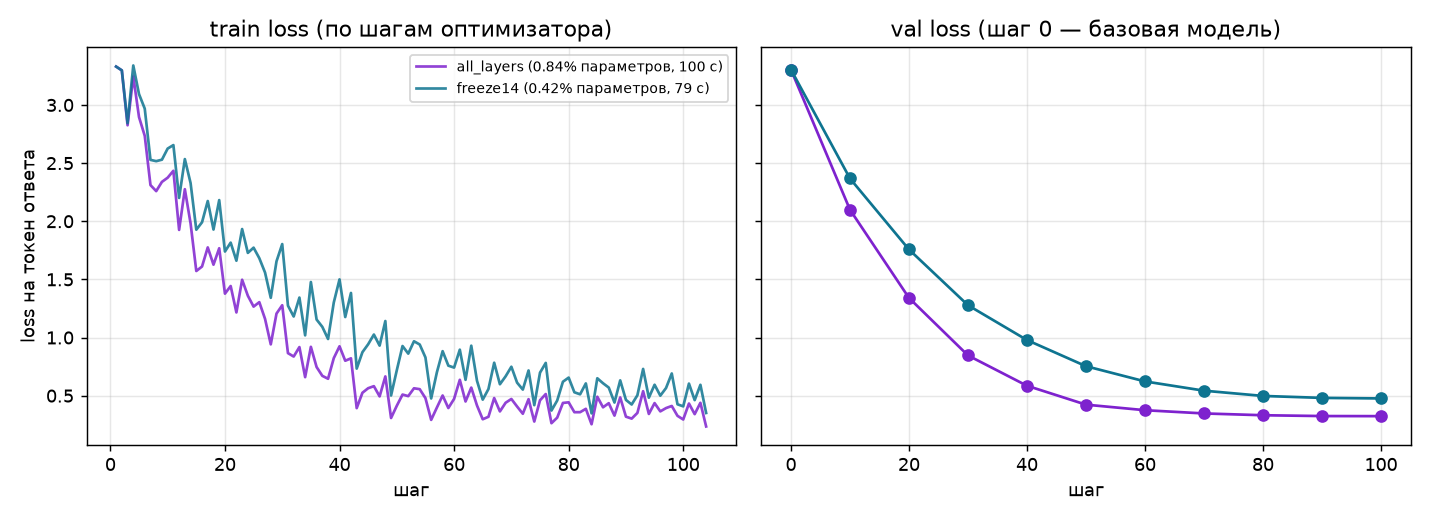
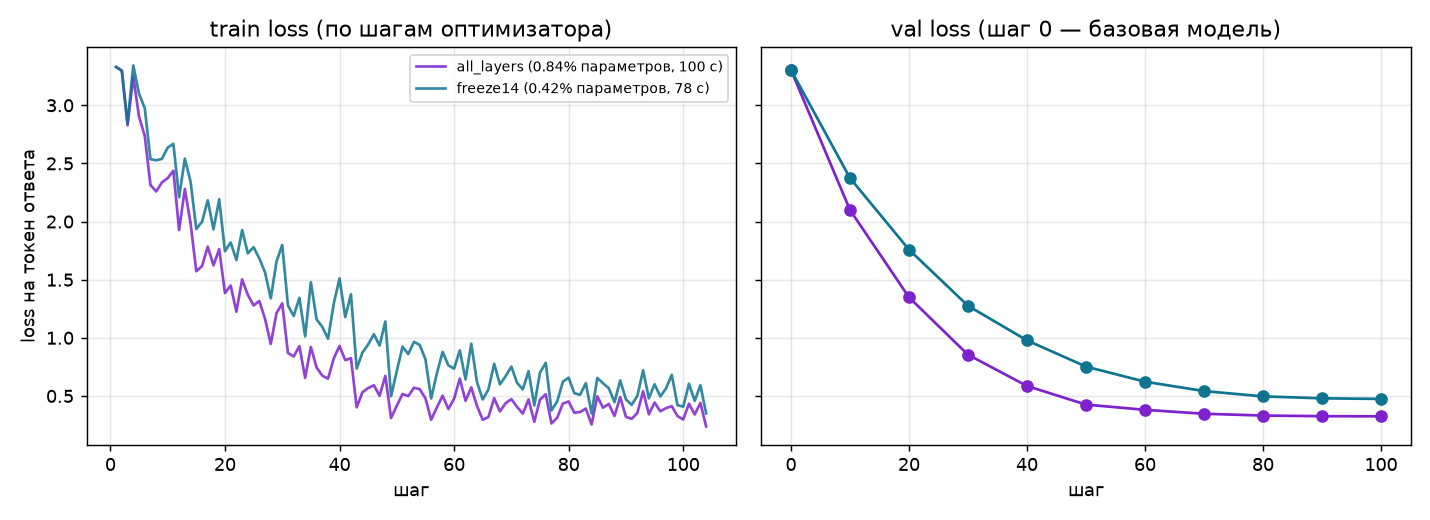
hw5 done

diff --git a/src/train.py b/src/train.py
@@ -26,6 +26,7 @@ os.environ.setdefault("PYTORCH_MPS_HIGH_WATERMARK_RATIO", "0.5")
 os.environ.setdefault("PYTORCH_MPS_LOW_WATERMARK_RATIO", "0.4")   # нижний порог не выше верхнего
 
 import torch  # noqa: E402
+import random  # noqa: E402
 from peft import LoraConfig, get_peft_model
 from transformers import AutoModelForCausalLM, AutoTokenizer, get_cosine_schedule_with_warmup
 
@@ -111,7 +112,12 @@ def main() -> None:
 
     device = resolve_device(params["model"]["device"])
     dtype = resolve_dtype(params["model"]["dtype"])
+    random.seed(tcfg["seed"])
+    torch.manual_seed(tcfg["seed"])
+    if torch.cuda.is_available():
+        torch.cuda.manual_seed_all(tcfg["seed"])
 
+  
     train_blob = load_split(params["data"]["train"])
     val_blob = load_split(params["data"]["val"])
     if args.val_limit:
@@ -131,6 +137,11 @@ def main() -> None:
     trainable = sum(p.numel() for p in model.parameters() if p.requires_grad)
     total = sum(p.numel() for p in model.parameters())
     model.train()
+
+    random.seed(tcfg["seed"])
+    torch.manual_seed(tcfg["seed"])
+    if torch.cuda.is_available():
+        torch.cuda.manual_seed_all(tcfg["seed"])
 
     examples = train_blob["examples"]
     micro_per_epoch = math.ceil(len(examples) / tcfg["batch_size"])
@@ -197,6 +208,7 @@ def main() -> None:
     out_root = Path(args.out) if args.out else Path(params["paths"]["models"])
     adapter_dir = out_root / f"adapter_{args.variant}"
     model.save_pretrained(adapter_dir)
+    tokenizer.save_pretrained(adapter_dir)
 
     tokens = sum(len(e["input_ids"]) for e in examples) * tcfg["epochs"]
     metrics = {

diff --git a/docs/defects.md b/docs/defects.md
@@ -1,0 +1,53 @@
+# Разбор пяти дефектов 
+
+Каждый дефект подтверждён числом из моего прогона на CUDA (Qwen3-0.6B, lr 2e-4, 104 шага, эффективный батч 8).
+
+## 1. Валидация не считается
+
+**В чём был.** В `src/train.py` функция `evaluate()` была написана, но не вызывалась: `base_val = None`, `curve_val` оставался пустым, `final_val_loss` в метриках был `null`. В логе печатался только train loss.
+
+**Как проявлялся.** `make check`, проверка 1: «точек val loss: 0 — нужен замер до обучения, по ходу и в конце». Не было видно, лучше ли модель базовой, и нельзя было поймать переобучение.
+
+**Как исправлен.** В `main()` после сборки модели вызван `evaluate(model.get_base_model(), ...)` для базовой точки на шаге 0 и `evaluate(model, ...)` каждые `eval_every` шагов оптимизатора; результаты пишутся в `curve_val`.
+
+**Число.** До правки `curve_val` = `[]`, `final_val_loss` = `null`. После правки в моём прогоне `val loss` = 11 точек, до обучения 3.304, в конце 0.3242.
+
+## 2. Train loss взлетает на первых шагах и остаётся высоким
+
+**В чём был.** В `params.yaml` стояло `lr: 1.0e-2` — на два порядка выше нормы для LoRA. AdamW с таким шагом выбрасывает матрицы A и B далеко из окрестности нуля, лосс уходит в десятки.
+
+**Как проявлялся.** В логе train loss на 10–20 шаге достигал 14–27 и к концу эпохи оставался около 6.7 — в разы выше, чем у базовой модели. Адаптер сохранялся, обучение не падало, но модель не сходилась.
+
+**Как исправлен.** В `params.yaml` `lr: 1.0e-2` заменён на `lr: 2.0e-4`.
+
+**Число.** До правки train loss на шаге 104 = 6.7485, `val loss` не считался. После правки train loss на шаге 104 = 0.2362, val loss 3.304 → 0.3242.
+
+## 3. Заморозка первых 14 слоёв ничего не меняет
+
+**В чём был.** В `src/train.py` функция `lora_config()` принимала `freeze_first`, но не передавала его в `LoraConfig`: аргумент `layers_to_transform` не выставлялся. LoRA навешивалась на все 28 слоёв в обоих вариантах.
+
+**Как проявлялся.** `make check`, проверка 6: «у варианта freeze14 адаптеры висят и на нижних слоях — заморозки нет». В моём прогоне до правки `trainable_params` = 5,046,272 для обоих вариантов, `seconds` = 100 и 100, `adapter_size_mb` = 19.31 и 19.31. Вывод «заморозка бесполезна» напрашивался сам.
+
+**Как исправлен.** В `lora_config()` добавлен аргумент `n_layers` и строка `layers = list(range(freeze_first, n_layers)) if freeze_first > 0 else None`, которая передаётся в `LoraConfig(layers_to_transform=layers)`.
+
+**Число.** После правки `freeze14`: обучаемых 2,523,136 против 5,046,272; 77 с против 100 с; адаптер 9.66 МБ против 19.31 МБ; val 0.4744 против 0.3242.
+
+## 4. Адаптер не поднимается на чужой машине
+
+**В чём был.** В `src/train.py` после `model.save_pretrained(adapter_dir)` не сохранялся токенизатор. В папке адаптера лежали только `adapter_model.safetensors` и `adapter_config.json`, без `tokenizer_config.json` и шаблона чата.
+
+**Как проявлялся.** `make check`, проверка 4: «в папке адаптера нет токенизатора — на чистой машине не с чем его поднять». Товарищ, которому отдали папку, не мог воспроизвести ответы: неизвестно, каким токенизатором и шаблоном обучен адаптер.
+
+**Как исправлен.** В `main()` добавлено `tokenizer.save_pretrained(adapter_dir)` сразу после сохранения адаптера.
+
+**Число.** До правки в `models/adapter_all_layers/` было 2 файла, ~19.31 МБ. После правки добавлены `tokenizer_config.json`, `tokenizer.json`, `special_tokens_map.json`, `chat_template.jinja`; размер папки вырос незначительно, проверка 3 продолжает проходить.
+
+## 5. Два прогона с одним конфигом дают разные кривые
+
+**В чём был.** В `src/train.py` не фиксировался `torch.manual_seed`. `random.Random(seed).shuffle` в `batches()` давал одинаковый порядок примеров, но dropout в LoRA (0.05) и инициализация весов AdamW шли от глобального генератора, который между запусками отличался.
+
+**Как проявлялся.** `make check`, проверка 5: «прогоны невоспроизводимы — сравнивать эксперименты нельзя». До правки два smoke-прогона по 3 шага давали `[3.3301, 3.2975, 2.7043]` и `[3.3301, 3.2975, 2.7035]`.
+
+**Как исправлен.** В `main()` перед загрузкой данных и перед началом цикла добавлены `random.seed(seed)`, `torch.manual_seed(seed)`, `torch.cuda.manual_seed_all(seed)`.
+
+**Число.** После правки два smoke-прогона дают одинаковую кривую `[3.3301, 3.2975, 2.7026]`; `make check`, проверка 5 — зелёная.

diff --git a/docs/compare.md b/docs/compare.md
@@ -10,7 +10,7 @@
 
 **Адаптер:**
 
-> Проверьте журналы событий и убедитесь, что соответствующее сообщение проявляется. Также соберите точное сообщение об ошибке и версии операцион
+> Проверьте журналы событий и убедитесь, что соответствующее приложение или служба находится в рабочем состоянии. Избегайте нескольких несвязанных изменений
 
 ## 2. Приложение запускается и сразу закрывается без сообщения об ошибке. Наиболее вероятная причина
 
@@ -50,4 +50,4 @@
 
 **Адаптер:**
 
-> Проверьте журналы событий и убедитесь, что соответствующее сообщение проявляется. Также соберите точное сообщение об ошибке и версии операцион
+> Проверьте журналы событий и убедитесь, что соответствует рабочему состоянию. Также соберите точное сообщение об ошибке, версии операцион
